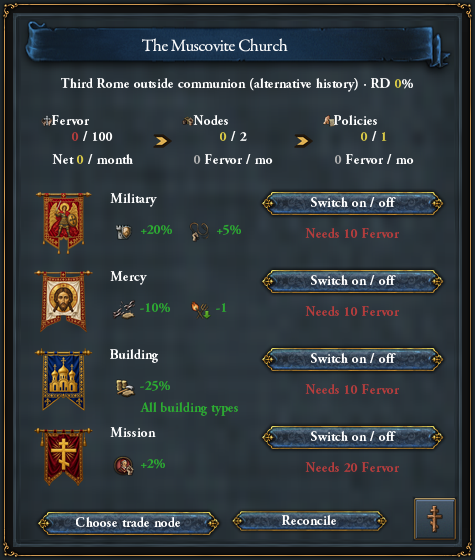
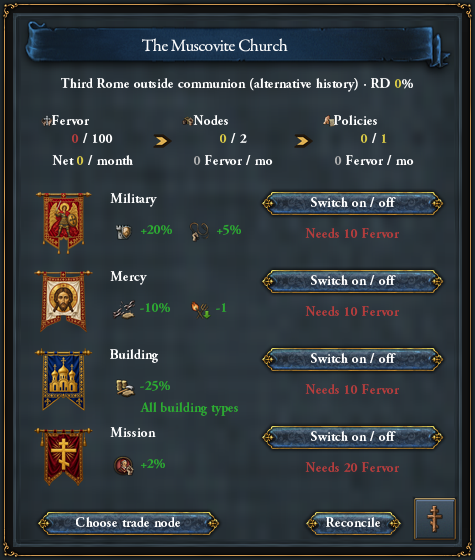
feat(diagnostics):

diff --git a/tools/build_church_gui.py b/tools/build_church_gui.py
@@ -49,10 +49,11 @@ def text(name,x,y,w=440,h=42,font='vic_18',align='left',tip=True):
  name = "{name}" scripted = yes position = {{ x={x} y={y} }} font = "{font}"
  text = "{name}" maxWidth = {w} maxHeight = {h} format = {align}
 }}'''
-def button(name,x,y,trigger,effect,potential='always = yes',sprite='GFX_standard_button_224',frame=None,label=True,tooltip=None,scale=None):
+# No scale parameter on purpose: EU4 1.37.5 ignores `scale` on a button whose sprite is a textSpriteType (button_type_8 and every
+# GFX_standard_button_N), so a narrowed one stays at full width. Measured in the game on 2026-10-18; choose a sprite of the width needed.
+def button(name,x,y,trigger,effect,potential='always = yes',sprite='GFX_standard_button_224',frame=None,label=True,tooltip=None):
     frame_clause='' if frame is None else f' frame = {{ number = {frame} trigger = {{ always = yes }} }}'
     tooltip_key=tooltip or name+'_tt'
-    scale_clause='' if scale is None else f' scale = {scale}'
     button_label=label if isinstance(label,str) else name if label else ''
     defs.append(f'''custom_button = {{
  name = {name} potential = {{ {potential} }} trigger = {{ {trigger} }}
@@ -60,7 +61,7 @@ def button(name,x,y,trigger,effect,potential='always = yes',sprite='GFX_standard
 }}''')
     return f'''guiButtonType = {{
  name = "{name}" scripted = yes position = {{ x={x} y={y} }}
- quadTextureSprite = "{sprite}" buttonText = "{button_label}" buttonFont = "vic_18"{scale_clause}
+ quadTextureSprite = "{sprite}" buttonText = "{button_label}" buttonFont = "vic_18"
 }}'''
 
 def feature_button(name,x,y,trigger,effect,sprite='GFX_standard_button_71',frame=None,label=False,scale=1):
@@ -205,9 +206,11 @@ for i,(key,sprite) in enumerate((
 )):
     tile_x=34+i*(RO_TILE_W+RO_ARROW_W)
     tile=art(f'rip_church_ro_{key}_symbol',sprite,4,4,0.28)
-    tile+=text(f'rip_church_ro_{key}_label',18,4,w=96,h=16,font='vic_14',align='left')
-    tile+=text(f'rip_church_ro_{key}_value',4,20,w=109,h=20,font='vic_18',align='center')
-    tile+=text(f'rip_church_ro_{key}_sub',4,43,w=109,h=16,font='vic_14',align='center')
+    # vic_18 throughout: EU4 1.37.5 declares no vic_14 and logs "No font with name vic_14" for every box that names it. A vic_18
+    # line is 18px, so the label box is 18 high and the value and sub boxes sit 2px lower than they did at vic_14.
+    tile+=text(f'rip_church_ro_{key}_label',18,4,w=96,h=18,font='vic_18',align='left')
+    tile+=text(f'rip_church_ro_{key}_value',4,22,w=109,h=20,font='vic_18',align='center')
+    tile+=text(f'rip_church_ro_{key}_sub',4,44,w=109,h=18,font='vic_18',align='center')
     ro+=card(f'rip_church_ro_{key}_tile',tile_x,RO_TILE_Y,RO_TILE_W,RO_TILE_H,tile)
     if i<2:
         ro+=art(f'rip_church_ro_cycle_arrow_{i}','GFX_rip_church_ro_cycle_arrow',
@@ -243,22 +246,25 @@ for i,k in enumerate(('war','mercy','building','mission')):
     if k == 'building':
         # Spell out that the discount covers all building categories; the
         # second line uses the unused space below the single construction icon.
-        policy+=text(f'rip_church_icon_{k}_benefit_second',112,55,w=118,h=18,font='vic_14',align='left')
+        policy+=text(f'rip_church_icon_{k}_benefit_second',112,55,w=118,h=18,font='vic_18',align='left')
     else:
         policy+=text(f'rip_church_icon_{k}_benefit_second',188,33,w=40,h=22,font='vic_18',align='left')
     ro+=card('rip_church_ro_'+k+'_card',x,y,RO_CARD_W,RO_CARD_H,policy)
 ro+=button('rip_church_nodes_button',34,RO_BUTTON_Y,'rip_church_ro_can_open_network_menu = yes',
            'country_event = { id = rip_church_nodes.1 }',sprite='button_type_8')
-# The corner belongs to the Holy Cities Register medallion, so the schism action sits between the node
-# button (x34..223) and the medallion (x412..458), at 0.85 scale: x229..390.
-ro+=button('rip_church_reconcile_button',229,RO_BUTTON_Y,'rip_church_can_reconcile = yes',
+# The bottom-right corner belongs to the Holy Cities Register tile (x412..458). The schism action sits between the node button
+# (x34..223) and the tile: the 105px standard button, six pixels clear of the tile (x301..406). It cannot be a narrowed
+# button_type_8: EU4 ignores `scale` on a textSpriteType button, so the 0.85-scale version of this button was drawn at its full
+# 189px (x229..418) and ran under the tile when the window was first opened in the game.
+HOLY_OPEN_X,HOLY_OPEN_Y=412,496
+RECONCILE_W=105
+ro+=button('rip_church_reconcile_button',HOLY_OPEN_X-6-RECONCILE_W,RO_BUTTON_Y,'rip_church_can_reconcile = yes',
            'rip_church_ro_begin_reconciliation_effect = yes',
-           'has_country_flag = rip_church_ro_schismatic',sprite='button_type_8',scale=0.85)
+           'has_country_flag = rip_church_ro_schismatic',sprite='GFX_standard_button_105')
 # Holy Cities Register: a tile in the bottom-right corner with the Russian Orthodox cross (religion
 # frame 30) laid over it. It used to be the vanilla Coptic blessing tile at the top right, which read
 # as a close button, and a second copy of it covered the Defender of the Faith header in the native
 # window. The tile is the clickable face; the cross is decoration and takes no clicks.
-HOLY_OPEN_X,HOLY_OPEN_Y=412,496
 ro+=f'guiButtonType = {{ name = "rip_ro_holy_cities_open" scripted = yes position = {{ x={HOLY_OPEN_X} y={HOLY_OPEN_Y} }} quadTextureSprite = "GFX_rip_church_ro_holy_tile" scale = 0.8 }}'
 ro+=f'iconType = {{ name = "rip_ro_holy_cities_open_symbol" scripted = yes spriteType = "GFX_country_icon_religion" position = {{ x={HOLY_OPEN_X+7} y={HOLY_OPEN_Y+7} }} scale = 0.5 alwaystransparent = yes }}'
 defs.append('custom_icon = { name = rip_ro_holy_cities_open_symbol potential = { always = yes } frame = { number = 30 trigger = { always = yes } } }')

diff --git a/tests/check_ro_panel_readouts.py b/tests/check_ro_panel_readouts.py
@@ -376,10 +376,13 @@ cases += 1
 
 # ---- 8. Geometry: inside the frame, no two readable boxes overlap, text fits ----------------
 SURFACE = (13, 13, 462, 547)                     # inner surface of the 475x560 dialog
-ADVANCE = {'vic_14': 4.92, 'vic_18': 6.33, 'vic_22': 7.5}        # px per character, estimated from an in-game screenshot
-LINE = {'vic_14': 14, 'vic_18': 18, 'vic_22': 24}
+# Only fonts that EU4 1.37.5 declares. vic_14 is not one: the engine logs "No font with name vic_14" and substitutes another face.
+ADVANCE = {'vic_18': 6.33, 'vic_22': 7.5}        # px per character, estimated from an in-game screenshot
+LINE = {'vic_18': 18, 'vic_22': 24}
 BUTTON = {'GFX_coptic_blessing_select': (58, 58), 'GFX_standard_button_224': (224, 32), 'GFX_rip_church_policy_select': (58, 58), 'button_type_8': (189, 31),
-          'GFX_rip_church_ro_holy_tile': (58, 58)}
+          'GFX_rip_church_ro_holy_tile': (58, 58), 'GFX_standard_button_105': (105, 31)}
+# textSpriteType buttons: EU4 ignores `scale` on these (measured in the game, 2026-10-18), so a scaled one is a layout the game will not draw.
+TEXT_BUTTONS = {'button_type_8', 'GFX_standard_button_224', 'GFX_standard_button_105'}
 
 
 def longest(text):
@@ -397,12 +400,14 @@ for kind, f, x, y, ox, oy in everything:
         shown = longest(loc[f['text']])
         lines = visible(shown).split('\n')
         font = f['font']
+        assert font in ADVANCE, (f['name'], 'font is not declared by EU4 1.37.5', font)
         assert max(len(line) for line in lines) * ADVANCE[font] <= w_, (f['name'], 'text may wrap', lines, w_)
         assert len(lines) * LINE[font] <= h_, (f['name'], 'text needs more lines than the box has', lines, h_)
         boxes[f['name']] = (x, y, x + w_, y + h_)
     elif kind == 'guiButtonType':
         bw, bh = BUTTON[f['quadTextureSprite']]
         scale = float(f.get('scale', 1))
+        assert scale == 1.0 or f['quadTextureSprite'] not in TEXT_BUTTONS, (f['name'], 'the engine ignores scale on this sprite', f['quadTextureSprite'])
         bw, bh = bw * scale, bh * scale
         boxes[f['name']] = (x, y, x + bw, y + bh)
         if f.get('buttonText'):

diff --git a/tests/check_ro_blessing_window.py b/tests/check_ro_blessing_window.py
@@ -210,6 +210,11 @@ loc = dict(re.findall(r'^ ([\w.]+):\d+ "(.*)"$', generated_loc, re.M))
 loc.update(re.findall(r'^ ([\w.]+):\d+ "(.*)"$', site_localisation, re.M))
 visible = lambda text: re.sub(r'§.', '', text)
 
+# EU4 1.37.5 reads an upper-case ROOT in a localisation command as an event target named 'ROOT', does not find it and logs three
+# lines (undefined non-dynamic flag, undefined event target, undefined monarch/heir) for every such string on every frame it is
+# drawn: with the register open error.log grew by about 0.2 MB a second. Written [Root.GetX] it is the scope keyword.
+assert not [key for key, value in loc.items() if '[ROOT.' in value], 'a church or register string uses [ROOT.]; write [Root.]'
+
 world = World()
 owner = world.country('MOS', 'russian_orthodox')
 row_limit = 34 + 407
@@ -263,8 +268,8 @@ for city, province in (
     progress_tip = f'rip_ro_holy_city_{city}_myth_progress_tt'
     assert dict(bindings['custom_icon', f'rip_ro_holy_city_{city}_myth_bar'])['tooltip'] == progress_tip
     assert dict(bindings['custom_text_box', f'rip_ro_holy_city_{city}_myth_progress'])['tooltip'] == progress_tip
-    assert loc[f'rip_ro_holy_city_{city}_myth_progress'] == f'[ROOT.GetRipRoMythYears{city.title()}] / 30 years'
-    assert f'[ROOT.GetRipRoMythYears{city.title()}]' in loc[progress_tip]
+    assert loc[f'rip_ro_holy_city_{city}_myth_progress'] == f'[Root.GetRipRoMythYears{city.title()}] / 30 years'
+    assert f'[Root.GetRipRoMythYears{city.title()}]' in loc[progress_tip]
 
     # Blessing: the two modifier icons of the myth, dimmed by a veil until it matures, then glowing.
     for slot, effect in enumerate(myths[city]):

diff --git a/tools/preview_church_register.py b/tools/preview_church_register.py
@@ -60,6 +60,7 @@ def scan(folder):
             SPRITES[name[1]] = dict(texture=texture[1].replace('\\', '/').replace('//', '/'),
                                     frames=int(frames[1]) if frames else 1,
                                     cornered=m[1].lower().startswith('cornered'),
+                                    text=m[1].lower().startswith('textsprite'),
                                     size=(int(size[1]), int(size[2])) if size else None,
                                     border=int(border[1]) if border else 0)
 
@@ -300,7 +301,13 @@ class Scene:
             elif kind == 'guiButtonType':
                 if scripted and self.visible('custom_button', name) is False:
                     continue
-                art = sprite_image(f['quadTextureSprite'], 1, float(f.get('scale', 1)))
+                scale = float(f.get('scale', 1))
+                if SPRITES[f['quadTextureSprite']]['text'] and scale != 1.0:
+                    # EU4 1.37.5 ignores `scale` on a textSpriteType button (measured in the game, 2026-10-18): it is drawn at
+                    # its full size there, so draw it that way here and report the generator mistake.
+                    problems.append(f"{name}: scale {scale} is ignored by the engine on the textSpriteType {f['quadTextureSprite']}")
+                    scale = 1.0
+                art = sprite_image(f['quadTextureSprite'], 1, scale)
                 self.canvas.alpha_composite(art, (x, y))
                 self.drawn.append((name, x, y, art.width, art.height))
                 label = f.get('buttonText')

diff --git a/tests/check_ro_policy_ui.py b/tests/check_ro_policy_ui.py
@@ -176,7 +176,7 @@ for policy in ('war', 'mercy', 'building', 'mission'):
     assert controls['custom_icon', f'rip_church_{policy}_active_frame']['potential'] == [('has_country_flag', f'rip_church_icon_{policy}')]
     for suffix in ('label', 'benefit', 'benefit_second', 'state'):
         label, _ = widget('instantTextBoxType', f'rip_church_icon_{policy}_{suffix}', children)
-        expected_font = 'vic_14' if policy == 'building' and suffix == 'benefit_second' else 'vic_18'
+        expected_font = 'vic_18'            # vic_14 is not declared by EU4 1.37.5
         assert label['font'] == expected_font
         assert label['scripted'] == 'yes'
     cases += 1

diff --git a/diagnostics/church_ui_20261018/README.uk.md b/diagnostics/church_ui_20261018/README.uk.md
@@ -25,12 +25,91 @@ python tools/preview_church_register.py --panel all --out diagnostics/church_ui_
 
 ## Межі
 
-- Це не рендер рушія, не наведення й не клік. Не перевірено в запущеній грі: вигляд, підказки шкал
-  і значків, натискання кутової кнопки, завантаження смуги `ro_myth_bar.dds` (2976×22), поведінка
-  рушія з 31 умовою кадру в одній прив'язці `custom_icon`. На час роботи в автора вже була запущена
-  EU4, тому ігровий прогін не запускали.
-- Попередження «font vic_14 is not declared by the game» стосується плиток Fervor/Nodes/Policies і
-  рядка «All building types» вікна церкви, які мод підписує невизначеним шрифтом `vic_14`; рушій
-  на скриншотах автора вони виглядають як `vic_18`, і прев'ю малює їх так само. Це не змінювалося в цій правці.
+- Це не рендер рушія, не наведення й не клік. Гру перевірено окремо 19 жовтня 2026: розділ «Прогін у
+  справжній EU4» нижче й знімки `runtime_*.png`.
+- Попередження «font vic_14 is not declared by the game» стосувалося плиток Fervor/Nodes/Policies і
+  рядка «All building types» вікна церкви; 19 жовтня їх переведено на `vic_18` (гра писала про
+  `vic_14` в `error.log`), тож прев'ю більше його не друкує.
 - Ширини тексту — справжні `xadvance` з `vic_18.fnt` без кернінгу; у скриншоті автора вони збіглися
   з виміряними в межах пікселя.
+
+## Прогін у справжній EU4 — 19 жовтня 2026
+
+Усе вище — прев'ю джерел. Цей розділ — те, що показала гра: EU4 1.37.5, ізольований профіль, вікно
+1600×900, масштаб інтерфейсу 0,75 (вікно церкви 475 px малюється приблизно 411 px), Мускови 1444.
+Знімки зроблено `PrintWindow` (не залежать від інших вікон), кліки й клавіші — справжніми подіями
+миші та клавіатури короткими «сплесками», коли користувач бездіяльний. Фікстура — прихована
+подія поза репозиторієм: ставить змінні `rip_ro_myth_years_*` і прапорець схизми та викликає справжній
+ефект переходу на унію. Мускови 1444 — звичайне `orthodox`, тож вікно «The Muscovite Church» з'являється
+після події `russian_orthodox.1` («Establish the Muscovite state church»).
+
+| Файл | Що показує |
+|---|---|
+| [runtime_church_fresh.png](runtime_church_fresh.png) | Нативна вкладка релігії й вікно церкви: порожньо вгорі справа, плитка з дубовим хрестом унизу справа, на заголовку «Defender of the Faith» нічого немає |
+| [runtime_register_fresh.png](runtime_register_fresh.png) | Реєстр у новій грі: «0 / 30 years» червоним над порожньою шкалою, приглушені значки |
+| [runtime_register_mid.png](runtime_register_mid.png) | 3 / 12 / 21 / 27 / 30 років |
+| [runtime_register_matured.png](runtime_register_matured.png) | Усі п'ять дозріли: зелені шкали, значки без завіси, блакитне сяйво |
+| [runtime_register_frames_0-29.png](runtime_register_frames_0-29.png) | Усі кадри шкали 0–29 років (30 — на попередньому знімку) |
+| [runtime_register_faith_frames.png](runtime_register_faith_frames.png) | Іконки віри провінції для трьох вір мода: Москва `russian_orthodox` — дубовий хрест (кадр 30), Київ `greek_catholic` — червоний (31), Новгород `old_believer` — зелений (32) |
+| [runtime_register_tooltips.png](runtime_register_tooltips.png), [runtime_register_matured_tooltips.png](runtime_register_matured_tooltips.png) | Підказки числа, шкали й обох значків: до дозрівання й після |
+| [runtime_tooltip_corner_tile.png](runtime_tooltip_corner_tile.png) | Підказка кутової плитки |
+| [runtime_church_schism.png](runtime_church_schism.png) | Вікно церкви під час схизми з кнопкою Reconcile після виправлення |
+| [runtime_before_fix_reconcile.png](runtime_before_fix_reconcile.png), [runtime_after_fix_reconcile.png](runtime_after_fix_reconcile.png) | Нижній ряд кнопок до й після виправлення |
+| [runtime_policies_toggle.png](runtime_policies_toggle.png) | Кнопка Policies ховає й повертає вікно |
+| [runtime_gc_window.png](runtime_gc_window.png), [runtime_gc_union_toggle.png](runtime_gc_union_toggle.png) | Вікно Унії УГКЦ; його ховає й повертає лише кнопка Union |
+
+**Збіглося з прев'ю.** Вікно церкви (кутова плитка на місці, угорі справа порожньо, у нативному вікні
+немає медальйона); реєстр (вступ у два рядки без дотику до зеленої смуги, п'ять рядків, значки віри:
+фіолетові хрести для Новгорода, Києва й Константинополя, зелений півмісяць для аль-Кудса — Москва
+фіолетова, бо її провінція ще `orthodox`; коли фікстура робить Москву `russian_orthodox`, Київ
+`greek_catholic`, а Новгород `old_believer`, у рядках стоять дубовий, червоний і зелений хрести —
+кадри 30, 31 і 32 смуги релігій; «Faith:» у кожному рядку, два приглушені значки на рядок); «Close Register» повертає у вікно церкви, кутова плитка відкриває реєстр; підказки числа, шкали й
+значків (назва міфу, прогрес, правило; значки дозрілого міфу називають обидва модифікатори);
+шкали заповнюються пропорційно, цифри жовті, на 30 — зелені, дозрілий рядок без завіси й з блакитним
+сяйвом; кнопка Policies ховає й повертає вікно; у вікні Унії Union — єдиний перемикач, хрестика на
+«Defender of the Faith» немає. Усі 31 кадр смуги 2976×22 рушій показує правильно: частка заповнення
+шкали на знімках відрізняється від `роки / 30` не більше ніж на 0,007 (один піксель шкали — 0,012):
+
+| Роки | 0 | 1 | 2 | 3 | 4 | 5 | 6 | 7 | 8 | 9 | 10 |
+|---|---|---|---|---|---|---|---|---|---|---|---|
+| Частка | 0,000 | 0,037 | 0,062 | 0,099 | 0,136 | 0,160 | 0,198 | 0,235 | 0,259 | 0,296 | 0,333 |
+
+| Роки | 11 | 12 | 13 | 14 | 15 | 16 | 17 | 18 | 19 | 20 | 21 |
+|---|---|---|---|---|---|---|---|---|---|---|---|
+| Частка | 0,370 | 0,395 | 0,432 | 0,469 | 0,494 | 0,531 | 0,568 | 0,593 | 0,630 | 0,667 | 0,704 |
+
+| Роки | 22 | 23 | 24 | 25 | 26 | 27 | 28 | 29 | 30 |
+|---|---|---|---|---|---|---|---|---|---|
+| Частка | 0,728 | 0,765 | 0,802 | 0,827 | 0,864 | 0,901 | 0,926 | 0,963 | 1,000 |
+
+**Не збіглося, і гра це виправила** (усе виправлено в генераторах, перегенеровано; знімки «після» —
+у таблиці вище):
+
+1. **Кнопка Reconcile.** Рушій ігнорує `scale` на кнопці з `textSpriteType` (`button_type_8` і всі
+   `GFX_standard_button_N`): «звужена» до 0,85 кнопка лишилася 189 px (x 229–418), а не 161 px, і правим
+   кінцем заходила під кутову плитку (x 412). Прев'ю малювало її вузькою. Тепер це стандартна кнопка
+   105 px `GFX_standard_button_105`, x 301–406. Прев'ю тепер малює `scale` на таких кнопках повною
+   шириною й вважає його помилкою генератора; тест `check_ro_panel_readouts.py` теж забороняє його.
+2. **Шрифт `vic_14`.** Його немає в грі: `error.log` писав `No font with name vic_14` сім разів при відкритті
+   вікна церкви (плитки Fervor/Nodes/Policies і «All building types»), а рушій підставляв інший
+   шрифт. Прев'ю казало «малюю як `vic_18`». Усі ці написи тепер `vic_18` (див. `CHURCH_GUI_LAYOUT_STATUS`).
+3. **Потік у `error.log`.** Поки реєстр відкритий, гра писала по три рядки на кадр
+   (`Trying to get undefined non-dynamic flag: 'ROOT'`, `Undefined event target: ERROR_FLAG_INDEX`,
+   `Undefined monarch/heir: ROOT`) — близько 0,2 МБ за секунду, 142 МБ за перший прогон. Причина: у локалізації реєстру
+   стояло `[ROOT.GetRipRoMythYears…]`; рушій читає верхній регістр як ціль події, не знаходить її й шукає
+   далі, а текст усе ж друкується, тож ні прев'ю, ні знімки вади не показували. Тепер `[Root.…]` (як у
+   решті церковної локалізації), а `check_ro_blessing_window.py` забороняє `[ROOT.` у рядках церкви
+   й реєстру. Після виправлення `error.log` повного прогону має лише рядки початкового
+   завантаження: нічого про шрифти, значки, `custom_gui` чи локалізацію церковних вікон.
+
+**Хибна тривога.** Рядок стану вікна РПЦ («Muscovite confession in Eastern communion · RD 20%») на перший
+погляд здавався обрізаним знизу. Це не обрізання: у цьому рядку немає літер з нижніми виносами, і
+гліфи збігаються піксель у піксель із контрольним рядком «Building». Нічого не змінено.
+
+**Межі.** Не перевірено: вкладки Curia й Parishes, клік по Reconcile, натискання політик, інші
+мови. У `error.log` лишаються рядки початкового завантаження, не пов'язані з інтерфейсом церкви:
+`decisions/RIP_RO_Communion.txt` (невідомий тригер `rip_church_ro_can_break_communion`),
+`decisions/GreekCatholicDecisions.txt` (розбір на `rip_church_union_supporter`, рядок 105),
+`events/RIP_OrthodoxAuthority.txt` (`rip_ro_authority.1` без варіантів) — давні, не з цієї правки.
+Рядок `Missing Icon 'remove_parliament'` з'являється лише в першому прогоні й стосується парламентського
+інтерфейсу, не церкви.

diff --git a/docs/CHURCH_GUI_LAYOUT_STATUS.uk.md b/docs/CHURCH_GUI_LAYOUT_STATUS.uk.md
@@ -17,9 +17,12 @@
 (`tools/build_ro_register_art.py`, без жодного ванільного пікселя): сланцева основа й золота
 облямівка ванільного вибору благословення, але без коптського хреста. Поверх лежить хрест
 РПЦ (`GFX_country_icon_religion`, кадр 30, масштаб 0,5, не приймає кліків). Кнопка схизми,
-яка з'являється лише під час Розколу, перейшла на x 229 і масштаб 0,85 (160 px), щоб стояти між
-кнопкою вузлів (x 34–223) й кутовою кнопкою; тест геометрії тепер не допускає перекриття між
-ними й нічого в правому верхньому куті. Реєстр відкривається лише з показаного вікна церкви:
+яка з'являється лише під час Розколу, стоїть між кнопкою вузлів (x 34–223) й кутовою кнопкою:
+стандартна кнопка 105 px `GFX_standard_button_105`, x 301–406, шість пікселів до плитки. Спершу її
+звузили масштабом 0,85 (x 229, 160 px), але рушій ігнорує `scale` на кнопці з `textSpriteType`
+(`button_type_8`, усі `GFX_standard_button_N`): у грі вона лишилася 189 px (x 229–418) і заходила
+під плитку. Тест геометрії тепер не допускає ані перекриття між кнопками, ані `scale` на такій кнопці,
+ані нічого в правому верхньому куті. Реєстр відкривається лише з показаного вікна церкви:
 раніше медальйон у нативному вікні був доступний і тоді, коли вікно Policies сховано.
 
 **Реєстр.** Вікно 475×560, п'ять рядків по 58 px із кроком 60 (y 148–446), нижче підсумок у
@@ -51,18 +54,35 @@
   й 30 ключів `rip_ro_myth_bar_*` вилучено: квадратні дужки в них рушій читав як команди й нічого не
   друкував.
 
-**Шрифт.** `vic_14`, яким мод ще підписує плитки Fervor/Nodes/Policies і рядок «All building
-types», у грі не оголошено (`interface/core.gfx` має лише `vic_18`, `vic_22`, `Main_14` та ін.);
-на скриншотах автора такі написи виглядають як `vic_18`. Тому всі рядки реєстру прямо підписано `vic_18`, а
-ширини перевірено за справжніми метриками (`vic_18.fnt`, найширший «Faith: Muscovite Orthodox» —
-153 із 166 px). Плитки церковного вікна не змінювалися.
+**Шрифт.** `vic_14` у грі не оголошено (`interface/core.gfx` має лише `vic_18`, `vic_22`, `Main_14` та ін.):
+на кожен напис із ним `error.log` друкував `No font with name vic_14` (сім рядків при відкритті вікна
+церкви: плитки Fervor/Nodes/Policies і рядок «All building types»), а рушій підставляв інший шрифт.
+Тому всі рядки реєстру й вікна церкви прямо підписано `vic_18`: напис плитки має 18 px заввишки,
+число й рядок під ним опущено на 2 px (y 22 і 44), «All building types» — теж `vic_18`. Ширини реєстру
+перевірено за справжніми метриками (`vic_18.fnt`, найширший «Faith: Muscovite Orthodox» — 153 із
+166 px). Тест `check_ro_panel_readouts.py` знає лише оголошені шрифти.
 
 **Перевірка.** `tools/preview_church_register.py --panel all` малює п'ять видів (реєстр: нова
 гра, на півдорозі, дозрілий; вікно церкви: звичайне й під час схизми) із справжніми текстурами й
 шрифтом, виконуючи справжні прив'язки `custom_gui` у скінченному інтерпретаторі тестів;
 `check_ro_blessing_window.py` запускає його й перевіряє, що жоден рядок не переповнює рамку.
-Це прев'ю джерел, не знімок рушія. Не перевірено в запущеній грі: вигляд, наведення на шкалу
-й значки, клік по кнопці в куті, завантаження смуги 2976×22, поведінка рушія з 31 умовою кадру.
+Це прев'ю джерел, не знімок рушія; `scale` на кнопці з `textSpriteType` воно тепер малює як рушій
+(повною шириною) і повідомляє про нього як про помилку генератора.
+
+**У грі (EU4 1.37.5, 19 жовтня 2026).** Ізольований профіль, Мускови 1444; знімки —
+`diagnostics/church_ui_20261018/runtime_*.png`, опис — у README там же. Збіглося з прев'ю: вікно
+церкви (кутова плитка з хрестом, угорі справа порожньо, у нативному вікні немає медальйона), реєстр
+(вступ у два рядки, п'ять рядків, значки віри, «Faith:», «0 / 30 years», приглушені значки), підказки
+числа, шкали й обох значків (значки дозрілого міфу називають обидва модифікатори), усі 31 кадр смуги
+2976×22 (частка заповнення відрізняється від `роки / 30` не більше ніж на 0,007), дозрілий рядок із
+сяйвом, кнопка Policies ховає й повертає вікно, вікно Унії ховає лише кнопка Union. Не збіглося й
+виправлено: ширина кнопки Reconcile (вище), `vic_14` (вище) і потік у `error.log`. У локалізації
+реєстру стояло `[ROOT.GetRipRoMythYears…]`; рушій читає верхній регістр як ціль події `ROOT`, не знаходить
+її, пише три рядки на кожен малюваний рядок на кожному кадрі (близько 0,2 МБ за секунду з відкритим реєстром)
+і все одно друкує текст. Тепер `[Root.…]`, а `check_ro_blessing_window.py` забороняє `[ROOT.` у
+рядках церкви й реєстру. Після виправлень `error.log` повного прогону містить лише початкове
+завантаження, жодного рядка про шрифти, значки, `custom_gui` чи локалізацію церковних вікон.
+Не перевірено: вкладки Curia й Parishes, клік по Reconcile, натискання політик.
 
 ## Поточна панель РПЦ — 15 жовтня 2026
 
@@ -148,8 +168,8 @@ Missionary Network, кожен змінює колір і текст за ста
 проти справжнього `rip_church_ro_recount_effect`, звіряє підказки з умовами
 `*_can_open`, числа тексту з числами модифікаторів, прив'язки й геометрію;
 `tests/check_ro_readouts.py` тримає міграцію змінної, затискання запасу й
-маркер мережі. Рендер у запущеній грі не перевірено, а ширини тексту — оцінка
-(4,9 px на символ для `vic_14`, 6,3 px для `vic_18`, 7,5 px для `vic_22`).
+маркер мережі. Ширини тексту — оцінка (6,3 px на символ для `vic_18`, 7,5 px для `vic_22`;
+`vic_14` більше не вживається); вікно відкрито в запущеній грі 19 жовтня 2026, див. вище.
 
 29 вересня 2026.
 

diff --git a/docs/HANDOFF.md b/docs/HANDOFF.md
@@ -4,7 +4,8 @@
 > РПЦ. Вікно Унії тепер ховає й повертає лише кнопка **Union** під символом віри. Кнопка реєстру
 > живе в нижньому правому куті вікна «The Muscovite Church» (412, 496) на новій плитці
 > `GFX_rip_church_ro_holy_tile` із хрестом РПЦ (кадр 30 смуг релігій) замість коптського;
-> кнопка схизми стала вужчою (x 229, масштаб 0,85), щоб уміститися поруч. Реєстр
+> кнопка схизми — стандартна кнопка 105 px (`GFX_standard_button_105`, x 301), щоб уміститися поруч:
+> звужена `button_type_8` з масштабом 0,85 у грі лишалася 189 px і заходила під плитку. Реєстр
 > переписано: рядок — слот віри, назва/власник/віра, число років над **31-кадровою шкалою**
 > (`ro_myth_bar.dds`, по кадру на рік 0–30; золота, зелена на 30) і два справжні значки
 > бонусів міфу (модифікатори `ideas_EU4`), приглушені завісою, доки міф не дозріє, і з
@@ -17,9 +18,20 @@
 > `--check`) і `tools/preview_church_register.py` (прев'ю з ванільними текстурами й шрифтом).
 > Підпис кнопки **Union** тепер породжує `build_church_localisation.py`: раніше його вписали в
 > згенеровані файли руками, а генератор його стирав. Гейт: ті самі `check_ro_history` і
-> `check_old_believers`, що й до правки, нових червоних немає. **У грі не перевірено** (на
-> час роботи в автора вже була запущена EU4): вигляд, наведення, клік і завантаження
-> смуги шириною 2976 px перевірено лише за джерелами й прев'ю. Деталі —
+> `check_old_believers`, що й до правки; церковні правки нових червоних не додали. Окремо від них у
+> коміті 23e04727 з'явилася третя критична червона, `check_culture_key_compatibility` (застарілий
+> северянський ключ у `customizable_localization/rip_parliament_names.txt`, зі зміни назв парламентів,
+> не з церкви). **Перевірено в EU4 1.37.5 19 жовтня
+> 2026** (ізольований профіль, Мускови 1444, знімки `diagnostics/church_ui_20261018/runtime_*.png`):
+> вікно церкви, кутова плитка, реєстр, наведення на число, шкалу й значки, усі 31 кадр смуги
+> шириною 2976 px (частка заповнення відрізняється від `роки / 30` не більше ніж на 0,007), дозрілий
+> рядок із сяйвом, кнопка Reconcile під час схизми, Policies ховає й повертає вікно церкви, вікно
+> Унії ховає лише кнопка Union. Гра показала три вади, яких джерела й прев'ю не бачили, і їх
+> виправлено в генераторах: рушій ігнорує `scale` на кнопці з `textSpriteType` (Reconcile лишалася
+> 189 px і заходила під плитку), `vic_14` не оголошено (сім рядків у `error.log` на кожне відкриття
+> вікна), а `[ROOT.GetRipRo…]` у локалізації реєстру писало до `error.log` по три рядки на кадр,
+> поки реєстр відкритий (близько 0,2 МБ за секунду; тепер `[Root.…]`, тест забороняє `[ROOT.`). Не
+> перевірено: Curia й Parishes, клік по Reconcile, натискання політик. Деталі —
 > [CHURCH_GUI_LAYOUT_STATUS](CHURCH_GUI_LAYOUT_STATUS.uk.md).
 
 > **Оновлення 18 жовтня 2026 (пояснення ради KRU й Цесарства):** умовний
